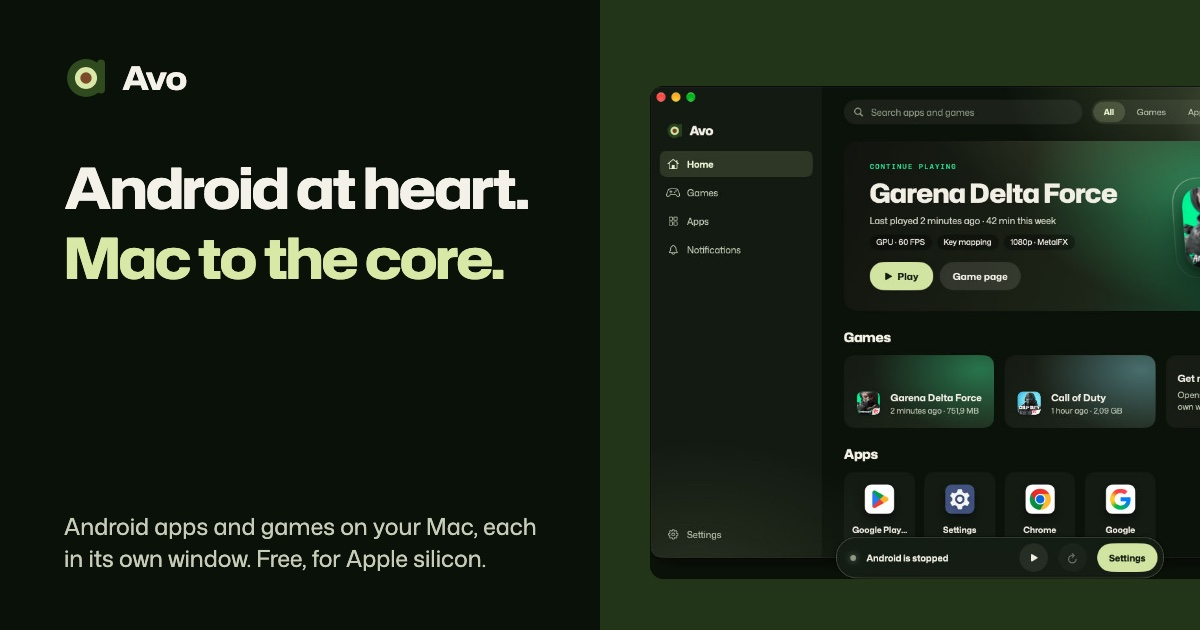
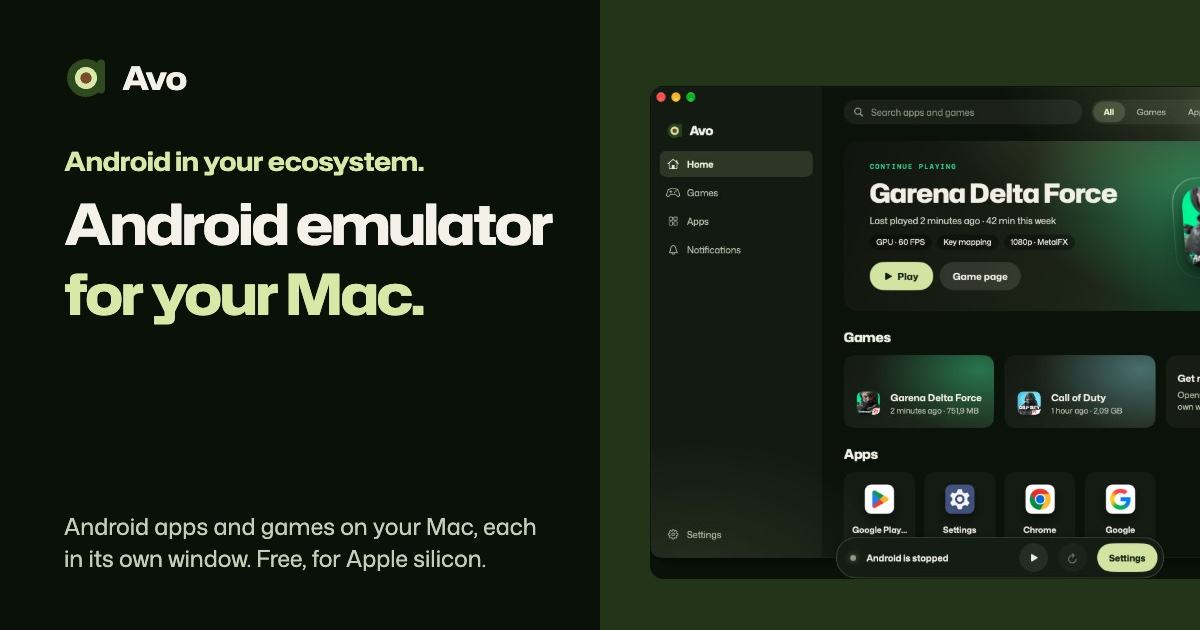
Put the new slogan and headlines on the website's share images
The four 1200 x 630 cards (Avo and Avo Hub, English and Indonesian) now
carry Android in your ecosystem over each page's headline, as the pages
do, and Avo Hub's card says it mirrors and controls the phone.

Changed region(s): [[0.0308, 0.2413, 0.4625, 0.5127]]

diff --git a/website/tools/og-image.html b/website/tools/og-image.html
@@ -7,8 +7,8 @@
        sips -s format jpeg -s formatOptions 86 og-en.png --out src/assets/img/og/og-en.jpg
      lang: en | id. page: avo (the default) | hub, for Avo Hub's page (its mark is in
      tools/og-hub/). Files: og-en, og-id, og-hub-en, og-hub-id.
-     The card is the site's first screen in small: the slogan's two halves, a real
-     window between them, flat Avo colours, no gradient. -->
+     The card is the site's first screen in small: the slogan over the headline's
+     two halves, a real window beside them, flat Avo colours, no gradient. -->
 <html lang="en">
 <head>
 <meta charset="utf-8">
@@ -30,7 +30,8 @@
   .brand { position: absolute; left: 64px; top: 56px; display: flex; align-items: center; gap: 14px; }
   .brand img { width: 44px; height: 44px; }
   .brand span { font: 700 32px/1 'Hubot Sans', sans-serif; font-stretch: 108%; letter-spacing: -0.01em; }
-  h1 { position: absolute; left: 64px; top: 160px; width: 510px; margin: 0; font: 700 56px/1 'Hubot Sans', sans-serif; font-stretch: 108%; letter-spacing: -0.03em; }
+  .slogan { position: absolute; left: 64px; top: 146px; margin: 0; color: #d8e8a7; font: 650 26px/1.2 'Hubot Sans', sans-serif; font-stretch: 108%; letter-spacing: -0.005em; }
+  h1 { position: absolute; left: 64px; top: 196px; width: 510px; margin: 0; font: 700 56px/1 'Hubot Sans', sans-serif; font-stretch: 108%; letter-spacing: -0.03em; }
   h1 span { display: block; }
   h1 span + span { margin-top: 14px; color: #d8e8a7; }
   p { position: absolute; left: 64px; bottom: 56px; width: 480px; margin: 0; color: #c5cdb9; font-size: 23px; line-height: 1.4; }
@@ -40,18 +41,20 @@
 <div class="stage"></div>
 <div class="window"><img id="shot" src="../src/assets/img/screens/library-1080.jpg" alt=""></div>
 <div class="brand"><img id="brandMark" src="../src/assets/img/avo-mark.svg" alt=""><span id="brandName">Avo</span></div>
+<p class="slogan" id="slogan"></p>
 <h1><span id="a"></span><span id="b"></span></h1>
 <p id="line"></p>
 <script>
   const q = new URLSearchParams(location.search);
   const lang = q.get('lang') || 'en';
   const hub = q.get('page') === 'hub';
+  const slogan = { en: 'Android in your ecosystem.', id: 'Android di ekosistemmu.' }[lang];
   const text = (hub ? {
-    en: ['Your Android,', 'on your Mac.', 'Its screen, notifications, messages, calls and files, over a cable, Wi‑Fi or the internet.'],
-    id: ['Android kamu,', 'langsung di Mac.', 'Layar, notifikasi, pesan, panggilan, dan file-nya, lewat kabel, Wi‑Fi, atau internet.'],
+    en: ['Your Android phone,', 'on your Mac.', 'Mirror and control it, with its notifications, messages, calls and files, over a cable, Wi‑Fi or the internet.'],
+    id: ['Ponsel Android kamu,', 'langsung di Mac.', 'Tampilkan dan kendalikan, lengkap dengan notifikasi, pesan, panggilan, dan file, lewat kabel, Wi‑Fi, atau internet.'],
   } : {
-    en: ['Android at heart.', 'Mac to the core.', 'Android apps and games on your Mac, each in its own window. Free, for Apple silicon.'],
-    id: ['Jiwa Android,', 'rasa Mac.', 'Aplikasi dan game Android di Mac kamu, masing-masing di jendelanya sendiri. Gratis, untuk chip Apple.'],
+    en: ['Android emulator', 'for your Mac.', 'Android apps and games on your Mac, each in its own window. Free, for Apple silicon.'],
+    id: ['Emulator Android', 'untuk Mac.', 'Aplikasi dan game Android di Mac kamu, masing-masing di jendelanya sendiri. Gratis, untuk chip Apple.'],
   })[lang];
   if (hub) {
     document.getElementById('brandMark').src = 'og-hub/avo-hub-mark.svg';
@@ -59,6 +62,7 @@
     document.getElementById('shot').src = '../src/assets/img/screens/hub-overview-1200.jpg';
   }
   document.documentElement.lang = lang;
+  document.getElementById('slogan').textContent = slogan;
   document.getElementById('a').textContent = text[0];
   document.getElementById('b').textContent = text[1];
   document.getElementById('line').textContent = text[2];
